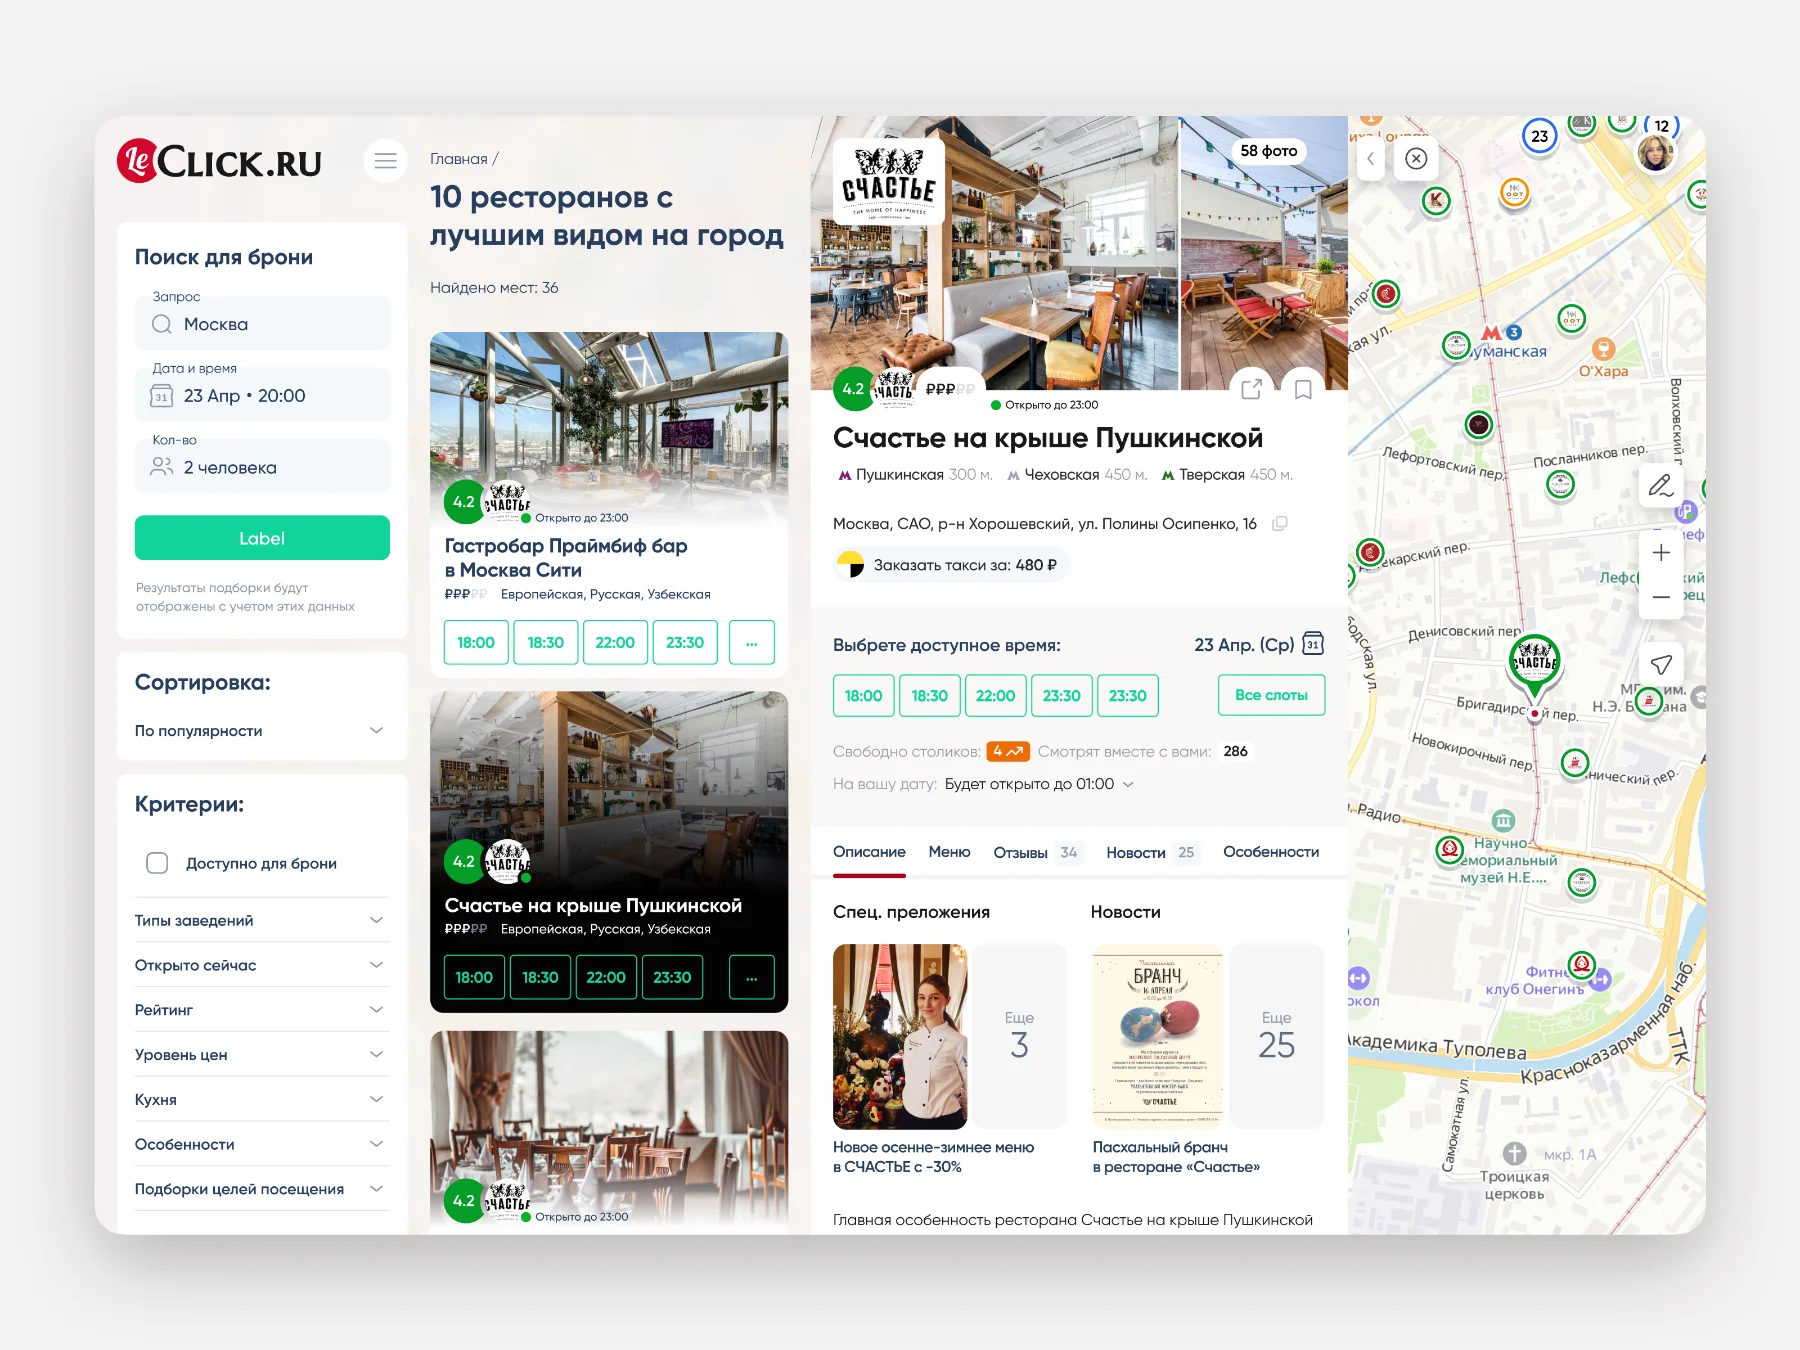
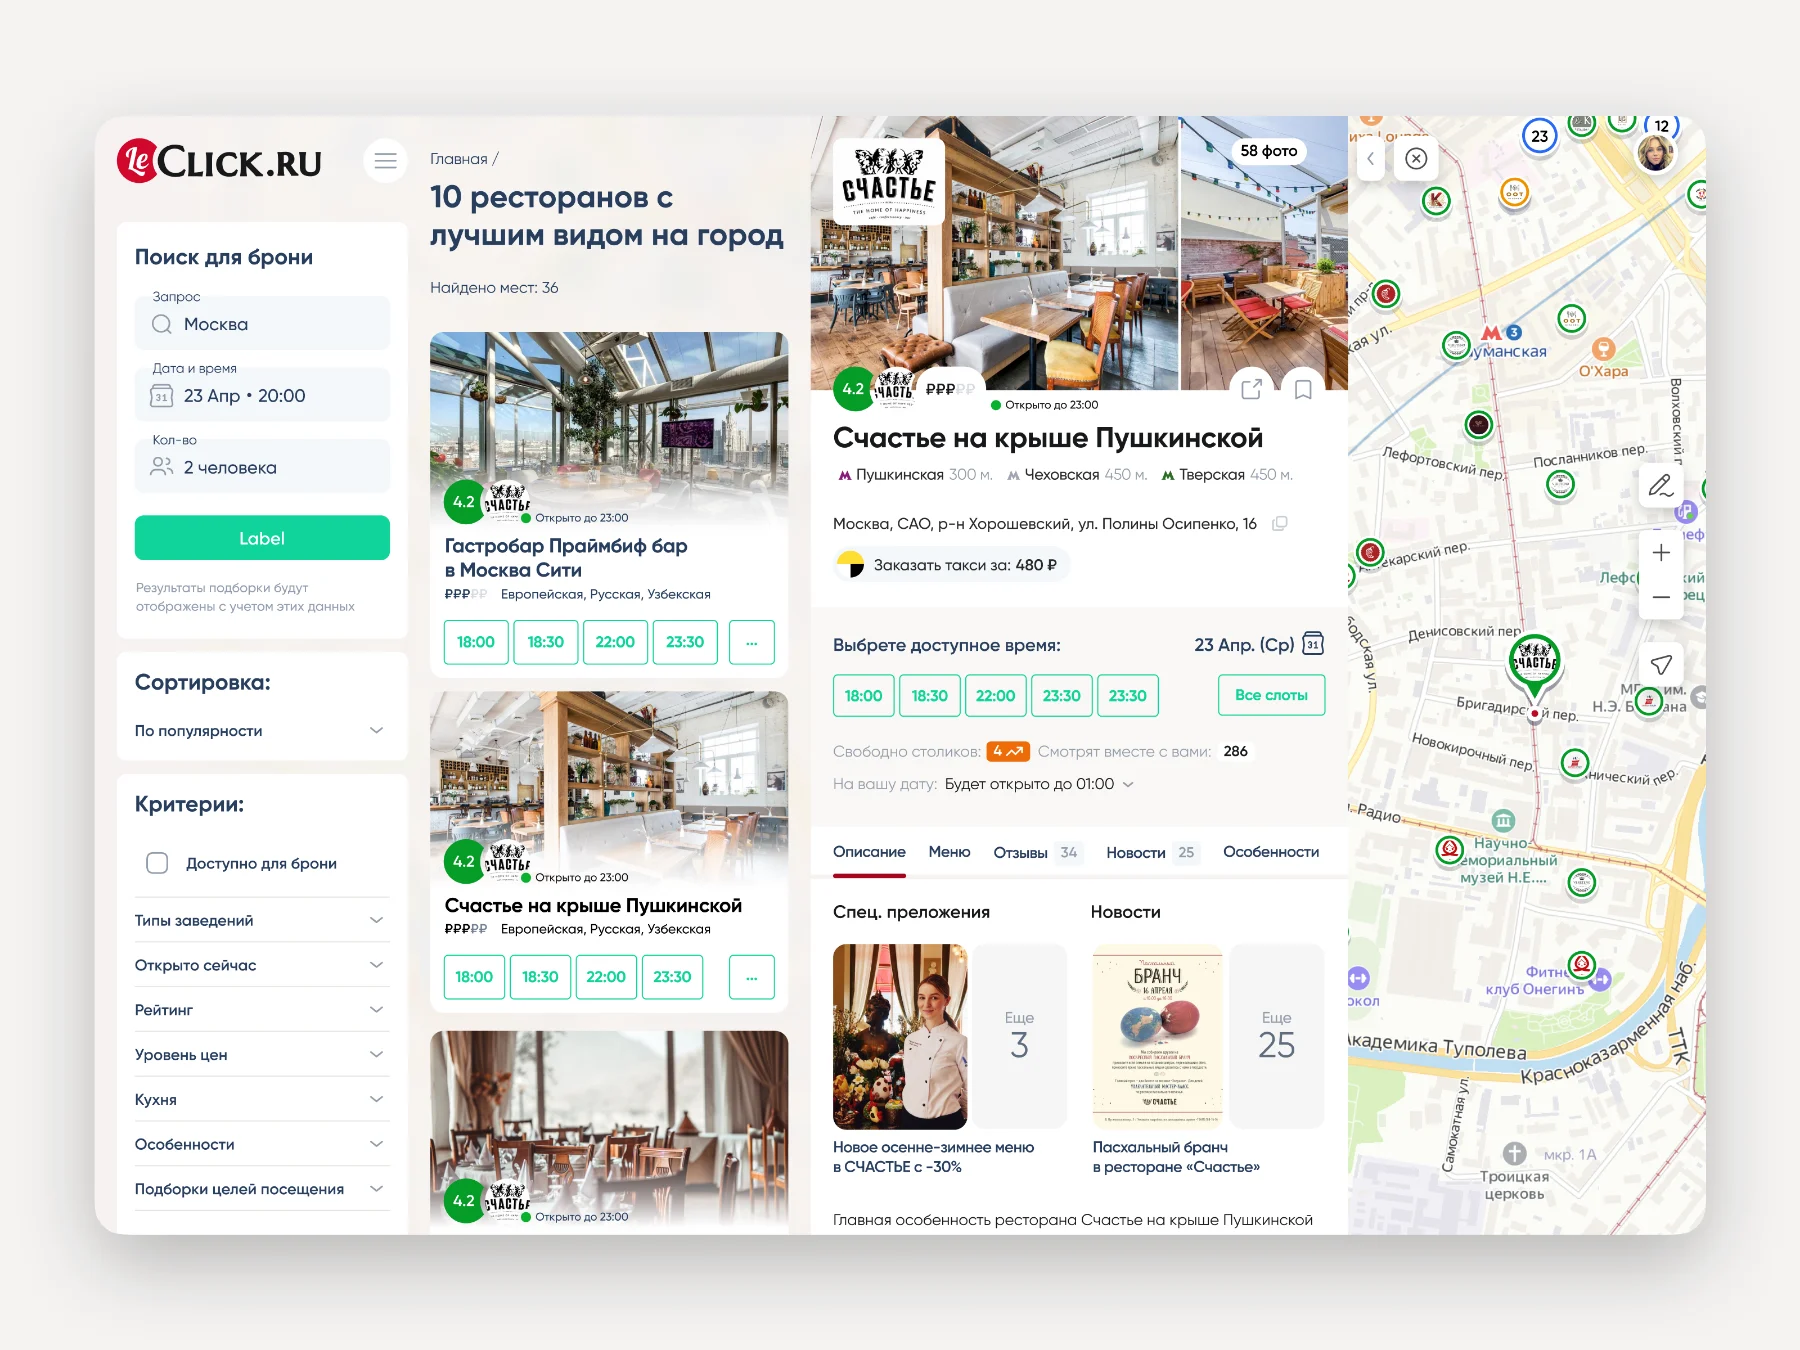
leclick: обновлен lc30, нажатое состояние карточки при клике, тексты короче, новый вывод; артефакты исследования контрастнее + английские версии

Changed region(s): [[0.2178, 0.5289, 0.4356, 0.7778]]

diff --git a/leclick.html b/leclick.html
@@ -40,7 +40,10 @@
               <img src="assets/lc/lc1.webp" alt="Поиск ресторана: пустая форма и карта" loading="lazy" decoding="async">
               <img class="demo__after" src="assets/lc/lc2.webp" alt="Выдача ресторанов по запросу" loading="lazy" decoding="async">
             </div>
-            <div class="demo__list"><img src="assets/lc/list.webp" alt="Лента найденных ресторанов" loading="lazy" decoding="async"></div>
+            <div class="demo__list">
+              <img src="assets/lc/list.webp" alt="Лента найденных ресторанов" loading="lazy" decoding="async">
+              <img class="demo__sel" src="assets/lc/list-sel.webp" alt="" loading="lazy" decoding="async">
+            </div>
             <div class="demo__sheet"><img src="assets/lc/card.webp" alt="Карточка ресторана: слоты, меню, отзывы" loading="lazy" decoding="async"></div>
             <span class="demo__tap"></span>
             <svg class="demo__cursor" viewBox="0 0 24 32" fill="none" aria-hidden="true">
@@ -89,10 +92,10 @@
   </ul>
 
   <h2>Решение</h2>
-  <p>Собрал сценарий, в котором гость получает подтверждение сразу, а ресторан управляет посадкой без ручной сверки. Визуальный язык делал так, чтобы бронь ощущалась как обещание, а не как заявка в справочнике. Продукт живет в двух средах: десктопный сайт для выбора и приложение для брони на ходу.</p>
+  <p>Гость бронирует и сразу получает подтверждение. Ресторан видит загрузку зала и управляет посадкой без ручной сверки. Две среды: сайт – чтобы выбрать, приложение – чтобы забронировать на ходу.</p>
 
   <h3>Десктоп: поиск и выбор ресторана</h3>
-  <p>Список и карта работают как одно целое: гость фильтрует заведения, а карточка ресторана со свободными слотами открывается сайд-шитом – без перехода на отдельную страницу и без потери выдачи.</p>
+  <p>Список и карта связаны: гость фильтрует заведения, а карточка ресторана со слотами открывается сайд-шитом – не уходя со страницы выдачи.</p>
   <div class="shots cols-1 shots--line">
     <img src="assets/lc/lc30.webp" alt="Поиск ресторанов: фильтры, лента и карта" loading="lazy" decoding="async">
   </div>
@@ -102,7 +105,7 @@
   </div>
 
   <h3>Приложение: бронь на ходу</h3>
-  <p>В мобильной версии тот же сценарий сжат до нескольких касаний: ближайшие рестораны на карте, выбор времени и стола, подтверждение брони и история броней в профиле.</p>
+  <p>Тот же сценарий в несколько касаний: рестораны рядом, время и стол, подтверждение и история броней в профиле.</p>
   <div class="shots cols-1">
     <img src="assets/lc/app_cover.webp" alt="Приложение LeClick" loading="lazy" decoding="async">
   </div>
@@ -115,7 +118,7 @@
 
   <div class="lesson">
     <h2>Чему научил меня этот опыт</h2>
-    <div class="lesson__in"><p>В двусторонних продуктах выигрывает не тот, кто сделал удобнее гостю, а тот, кто нашел сценарий, где обе стороны получают выгоду в одном действии.</p></div>
+    <div class="lesson__in"><p>Инструмент вокруг еды должен быть легко контролируемым: и гостем, и залом. Выигрывает не тот, кто сделал удобно гостю, а тот, кто сделал удобно и гостю, и ресторану.</p></div>
   </div>
 
   <div class="allcases edge">

diff --git a/en/leclick.html b/en/leclick.html
@@ -40,7 +40,10 @@
               <img src="/assets/lc/lc1.webp" alt="Restaurant search: empty form and map" loading="lazy" decoding="async">
               <img class="demo__after" src="/assets/lc/lc2.webp" alt="Search results for the query" loading="lazy" decoding="async">
             </div>
-            <div class="demo__list"><img src="/assets/lc/list.webp" alt="The feed of found restaurants" loading="lazy" decoding="async"></div>
+            <div class="demo__list">
+              <img src="/assets/lc/list.webp" alt="The feed of found restaurants" loading="lazy" decoding="async">
+              <img class="demo__sel" src="/assets/lc/list-sel.webp" alt="" loading="lazy" decoding="async">
+            </div>
             <div class="demo__sheet"><img src="/assets/lc/card.webp" alt="Restaurant card: slots, menu, reviews" loading="lazy" decoding="async"></div>
             <span class="demo__tap"></span>
             <svg class="demo__cursor" viewBox="0 0 24 32" fill="none" aria-hidden="true">
@@ -75,7 +78,7 @@
   <p>I started with how booking works without a product: a phone call, the host’s notebook, manual checks. I looked into where time is lost and where no-shows come from.</p>
   <p>I mapped the process from three sides at once – the guest, the host and the restaurant. Interviews with guests showed what they expect from a booking; interviews with restaurateurs showed what a full room means to them; watching a host’s shift and going through paper logbooks revealed what interviews never mention: the real mechanics of rush hour.</p>
   <div class="shots cols-1 shots--pad">
-    <img src="/assets/lc/discovery-map.svg" alt="Map of the current booking process: three sides, five steps, points of loss" loading="lazy" decoding="async">
+    <img src="/assets/lc/discovery-map-en.svg" alt="Map of the current booking process: three sides, five steps, points of loss" loading="lazy" decoding="async">
   </div>
   <p class="caption">Research artefact: a map of the current booking process across the three sides.</p>
 
@@ -89,10 +92,10 @@
   </ul>
 
   <h2>The solution</h2>
-  <p>I built a scenario where the guest gets a confirmation straight away and the restaurant manages seating without manual checks. The visual language was made so that a booking feels like a promise rather than a request in a directory. The product lives in two environments: a desktop site for choosing and an app for booking on the go.</p>
+  <p>The guest books and gets a confirmation instantly. The restaurant sees its occupancy and manages seating without manual checks. Two environments: the site to choose, the app to book on the go.</p>
 
   <h3>Desktop: finding and choosing a restaurant</h3>
-  <p>The list and the map work as one: the guest filters venues, and the restaurant card with its free slots opens in a side sheet – no separate page, no losing the search results.</p>
+  <p>The list and the map are linked: the guest filters venues and the restaurant card with its slots opens in a side sheet – without leaving the results.</p>
   <div class="shots cols-1 shots--line">
     <img src="/assets/lc/lc30.webp" alt="Restaurant search: filters, feed and map" loading="lazy" decoding="async">
   </div>
@@ -102,7 +105,7 @@
   </div>
 
   <h3>App: booking on the go</h3>
-  <p>In the mobile version the same scenario is compressed into a few taps: nearby restaurants on the map, choosing a time and a table, confirming the booking and the booking history in the profile.</p>
+  <p>The same scenario in a few taps: restaurants nearby, a time and a table, confirmation and booking history in the profile.</p>
   <div class="shots cols-1">
     <img src="/assets/lc/app_cover.webp" alt="The LeClick app" loading="lazy" decoding="async">
   </div>
@@ -115,7 +118,7 @@
 
   <div class="lesson">
     <h2>What this experience taught me</h2>
-    <div class="lesson__in"><p>In two-sided products the winner is not the one who makes it more convenient for the guest, but the one who finds a scenario where both sides gain from the same single action.</p></div>
+    <div class="lesson__in"><p>A tool built around food has to stay easy to control – for the guest and for the floor. The winner is not the one who made it convenient for the guest, but the one who made it convenient for the guest and the restaurant alike.</p></div>
   </div>
 
   <div class="allcases edge">

diff --git a/case.css b/case.css
@@ -239,6 +239,8 @@ footer a{color:var(--accent)}
   overflow:hidden;opacity:0;animation:demoAfter 16s linear infinite}
 .demo__list img{position:absolute;left:0;top:0;width:100%;display:block;
   animation:demoList 16s ease-in-out infinite}
+/* Второй слой ленты — карточка «Счастье» в нажатом состоянии, включается по клику */
+.demo__list .demo__sel{opacity:0;animation:demoList 16s ease-in-out infinite, demoSel 16s linear infinite}
 
 /* Карточка ресторана: выезжает справа от колонки и сама прокручивается */
 .demo__sheet{position:absolute;left:44.44%;top:0;width:33.33%;height:100%;
@@ -290,6 +292,11 @@ footer a{color:var(--accent)}
   40%,100%{transform:translateY(0)}
 }
 /* Лента гаснет одновременно с карточкой — цикл начинается с чистого экрана */
+@keyframes demoSel{
+  0%,45.5%{opacity:0}
+  46%,88%{opacity:1}
+  92%,100%{opacity:0}
+}
 @keyframes demoSheet{
   0%,47%{opacity:0;transform:scale(.985)}
   52%,88%{opacity:1;transform:scale(1)}

diff --git a/en/stenn.html b/en/stenn.html
@@ -68,7 +68,7 @@
   <h2>Research</h2>
   <p>Before touching any screens I mapped the journey itself: how a supplier gets from application to money and where the deal stalls. I talked to suppliers and underwriters, watched the operations team at work and went through deal logs – they show what interviews never mention.</p>
   <div class="shots cols-1 shots--line">
-    <img src="/assets/stenn/research-map.svg" alt="Supplier journey map: six steps, three sides and the points where a deal stalls" loading="lazy" decoding="async">
+    <img src="/assets/stenn/research-map-en.svg" alt="Supplier journey map: six steps, three sides and the points where a deal stalls" loading="lazy" decoding="async">
   </div>
   <p class="caption">Research artefact: the supplier’s path to a payout across the three sides of the process.</p>
   <p>The main finding: time is eaten not by the checks themselves but by manual handovers between steps and by the opacity of status – the client cannot tell where the deal is, and the team rebuilds the context every time.</p>
